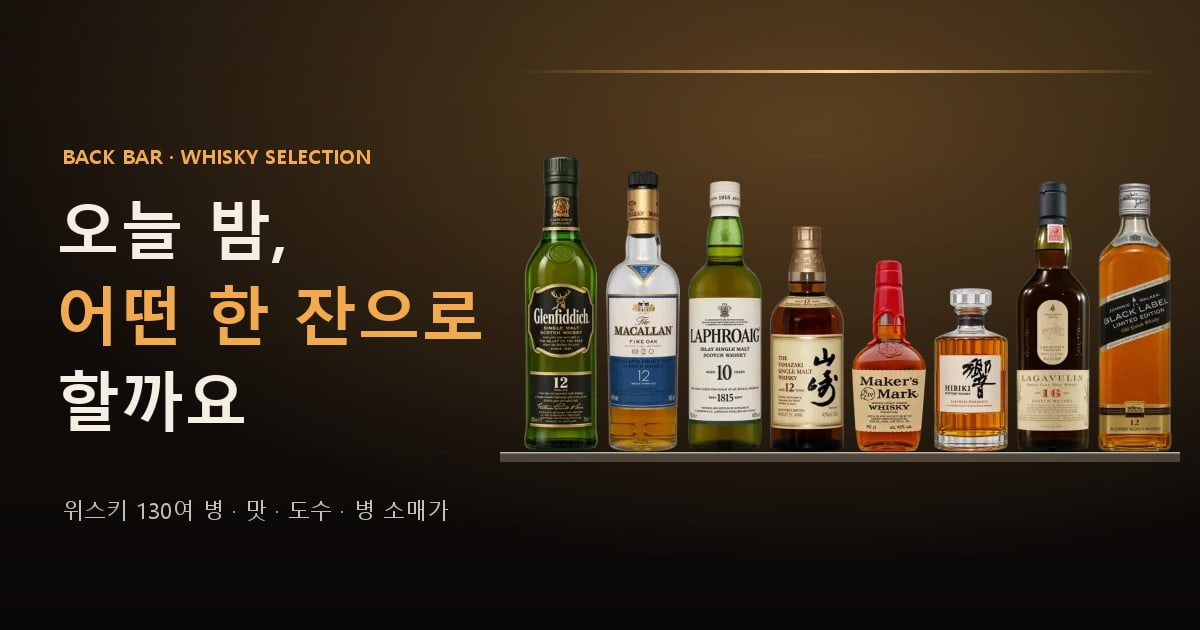
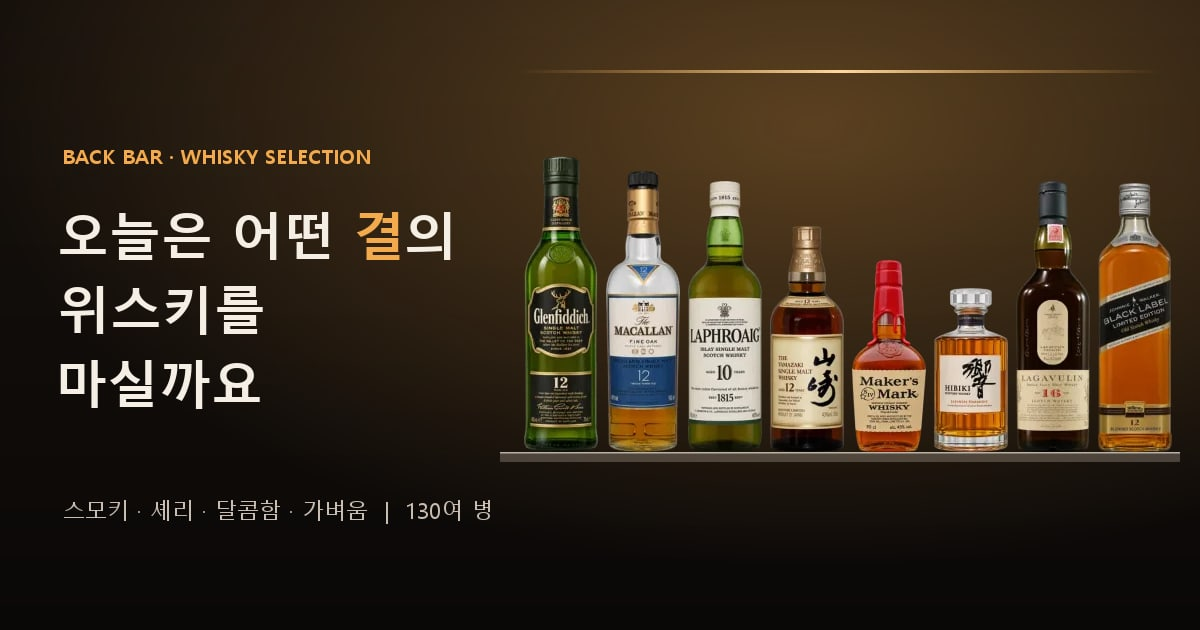
제목 문구 '오늘은 어떤 결의 위스키를 마실까요', 사진 없던 병 16종 이미지 추가, 선반 숫자 표시 버그 수정
제목: 사용자가 고른 안. 소개 문단·공유 이미지(og.jpg)도 맞춤.

이미지: Openverse로 사진 없는 62병의 상업 이용·변경 허용 사진을 찾아 라벨이 맞는 16장을 골라 코덱스로 다시 그림(발베니 21 포트우드, 글렌파클라스 12, 아드벡 우가달, 헤이그 클럽, 레어 브리드, 일라이저 크레이그 SB, 리텐하우스 라이, 토키, 히비키 17, 야마자키 18, 글렌리벳 18, 토마틴 12, 애버펠디 12, 레다이그 10, 짐빔, 폴 존). PH에 작가·라이선스·원본 주소. 판매점이 공식 사진을 퍼블릭 도메인으로 올린 조니워커 2장은 출처가 미심쩍어 뺌. 크레딧 문구를 '원본 사진'·'위키미디어 공용·Flickr'로.

버그: 지난 배포에서 btn(o, extra)로 바꾸며 선반의 hit.map(btn)이 순번을 덧붙임 줄로 넘겨 병 이름 아래 1·2·3 숫자가 보이던 문제. map(o=>btn(o))로 고침.

확인: 375px 첫 화면·선반·상세, 깨진 이미지 없음, 가로 넘침 없음. 남은 그림 병 46종은 자유 이용 사진을 찾지 못함.

Changed region(s): [[0.0308, 0.4524, 0.4008, 0.6937], [0.0308, 0.3016, 0.4008, 0.4222], [0.0617, 0.7841, 0.4008, 0.8444]]

diff --git a/index.html b/index.html
@@ -276,8 +276,8 @@ body.has-tray footer.site{padding-bottom:120px}
 <div class="wrap">
   <header class="top">
     <div class="eyebrow">Back Bar · Whisky Selection</div>
-    <h1>오늘 밤, <em>어떤 한&nbsp;잔</em>으로 할까요</h1>
-    <p class="lede">국내 위스키바 선반에서 자주 보는 병을 종류별로 진열해 두었습니다. 병을 누르면 맛, 도수, 숙성 통, 병 디자인, 마시는 법과 맛이 비슷한 병이 나옵니다.</p>
+    <h1>오늘은 어떤 <em>결</em>의<br>위스키를 마실까요</h1>
+    <p class="lede">스모키, 셰리, 달콤함, 가벼움. 원하는 맛을 고르면 선반에서 그 병들만 남습니다. 병을 누르면 도수와 숙성 통, 국내 병 소매가, 맛이 비슷한 병이 나옵니다.</p>
     <div class="stats" id="stats"></div>
   </header>
 </div>
@@ -308,7 +308,7 @@ body.has-tray footer.site{padding-bottom:120px}
 <div class="tray" id="tray" role="region" aria-label="비교할 병" hidden></div>
 
 <script>
-const PH = {"glenfiddich-12":{"f":"bottles/glenfiddich-12.webp","w":110,"h":440,"a":"Blueye","l":"CC BY-SA 3.0","u":"https://commons.wikimedia.org/wiki/File:Bottle_of_Glenfiddich_12yo.jpg","n":""},"glenfiddich-15":{"f":"bottles/glenfiddich-15.webp","w":113,"h":440,"a":"Rennboot","l":"CC BY 3.0","u":"https://commons.wikimedia.org/wiki/File:Glenfiddich_Products.jpg","n":"사진은 예전 둥근 병의 15년 솔레라(지금 병은 12년과 같은 삼각 병)"},"glenlivet-12":{"f":"bottles/glenlivet-12.webp","w":123,"h":440,"a":"ChickenFalls","l":"CC BY-SA 3.0","u":"https://commons.wikimedia.org/wiki/File:The_Glenlivet_-_12_yr_Single_Malt.JPG","n":""},"macallan-12-sherry":{"f":"bottles/macallan-12-sherry.webp","w":116,"h":440,"a":"Nebydlogop","l":"CC BY-SA 4.0","u":"https://commons.wikimedia.org/wiki/File:Macallan_12.jpg","n":"사진 속 판(셰리 오크·더블 캐스크·파인 오크)은 다를 수 있음"},"macallan-12-double":{"f":"bottles/macallan-12-double.webp","w":115,"h":440,"a":"Arkadiy P.","l":"CC BY-SA 4.0","u":"https://commons.wikimedia.org/wiki/File:The_Macallan_12_yo_new.png","n":"사진 속 판(셰리 오크·더블 캐스크·파인 오크)은 다를 수 있음"},"balvenie-12":{"f":"bottles/balvenie-12.webp","w":161,"h":440,"a":"P. Brundel","l":"CC BY-SA 3.0","u":"https://commons.wikimedia.org/wiki/File:Balvenie_Whisky_Doublewood_12_years_old.jpg","n":""},"balvenie-14":{"f":"bottles/balvenie-14.webp","w":145,"h":440,"a":"Thomon","l":"CC BY-SA 4.0","u":"https://commons.wikimedia.org/wiki/File:Balvenie_14.jpg","n":""},"glenfarclas-105":{"f":"bottles/glenfarclas-105.webp","w":136,"h":440,"a":"Andy Mabbett","l":"CC BY-SA 3.0","u":"https://commons.wikimedia.org/wiki/File:Glenfarclas_105_miniature.jpg","n":"사진은 작은 병"},"glenallachie-12":{"f":"bottles/glenallachie-12.webp","w":162,"h":440,"a":"Keeezawa","l":"CC BY-SA 4.0","u":"https://commons.wikimedia.org/wiki/File:Glen_allachie_12yo.jpg","n":""},"cragganmore-12":{"f":"bottles/cragganmore-12.webp","w":110,"h":440,"a":"P. Brundel","l":"CC BY-SA 3.0","u":"https://commons.wikimedia.org/wiki/File:Gragganmore_Single_Malt_Speyside_Scotch_Whisky_12_years_old.jpg","n":""},"glenmorangie-original":{"f":"bottles/glenmorangie-original.webp","w":120,"h":440,"a":"Nebydlogop","l":"CC BY-SA 4.0","u":"https://commons.wikimedia.org/wiki/File:Glenmorangie_10.jpg","n":""},"glenmorangie-lasanta":{"f":"bottles/glenmorangie-lasanta.webp","w":117,"h":440,"a":"Sänger","l":"CC BY-SA 4.0","u":"https://commons.wikimedia.org/wiki/File:Glenmorangie_Quinta_Ruban_und_Lasanta.jpg","n":""},"dalmore-12":{"f":"bottles/dalmore-12.webp","w":184,"h":440,"a":"Keeezawa","l":"CC BY-SA 4.0","u":"https://commons.wikimedia.org/wiki/File:Dalmore_12yo.jpg","n":""},"glendronach-12":{"f":"bottles/glendronach-12.webp","w":113,"h":440,"a":"Thanhtour (thảo luận)","l":"CC BY 3.0","u":"https://commons.wikimedia.org/wiki/File:Ruou_whisky_glendronach.jpg","n":"사진 속 병은 다른 연수일 수 있음"},"clynelish-14":{"f":"bottles/clynelish-14.webp","w":109,"h":440,"a":"Keeezawa","l":"CC BY-SA 4.0","u":"https://commons.wikimedia.org/wiki/File:Clynelish14yo.jpg","n":""},"oban-14":{"f":"bottles/oban-14.webp","w":109,"h":440,"a":"Björn Rath","l":"퍼블릭 도메인","u":"https://commons.wikimedia.org/wiki/File:Oban_14yo.jpg","n":""},"old-pulteney-12":{"f":"bottles/old-pulteney-12.webp","w":159,"h":440,"a":"Numitr0n","l":"CC BY-SA 4.0","u":"https://commons.wikimedia.org/wiki/File:Bottle_of_Old_Pulteney_12.jpg","n":""},"dalwhinnie-15":{"f":"bottles/dalwhinnie-15.webp","w":185,"h":440,"a":"P. Brundel","l":"CC BY-SA 3.0","u":"https://commons.wikimedia.org/wiki/File:Dalwhinnie_Single_Highland_Malt_15_years_old.jpg","n":""},"talisker-10":{"f":"bottles/talisker-10.webp","w":116,"h":440,"a":"P. Brundel","l":"CC BY-SA 3.0","u":"https://commons.wikimedia.org/wiki/File:Talisker_Single_Malt_Scotch_Whisky_10_years_old.jpg","n":""},"highland-park-12":{"f":"bottles/highland-park-12.webp","w":176,"h":440,"a":"Adrenalin658","l":"CC BY-SA 4.0","u":"https://commons.wikimedia.org/wiki/File:Highland_Park_12_yo_new.png","n":""},"arran-10":{"f":"bottles/arran-10.webp","w":113,"h":440,"a":"Look Sharp!","l":"CC BY-SA 4.0","u":"https://commons.wikimedia.org/wiki/File:The_Arran_Malt_Single_Malt_Scotch_Whisky.jpg","n":"사진은 같은 증류소의 다른 제품"},"laphroaig-10":{"f":"bottles/laphroaig-10.webp","w":120,"h":440,"a":"Thomon","l":"CC BY-SA 4.0","u":"https://commons.wikimedia.org/wiki/File:Laphroaig_10.jpg","n":""},"laphroaig-qc":{"f":"bottles/laphroaig-qc.webp","w":114,"h":440,"a":"Lord van Tasm","l":"CC BY-SA 3.0","u":"https://commons.wikimedia.org/wiki/File:Laphroaig_Quarter_Cask_Dram.jpg","n":""},"lagavulin-16":{"f":"bottles/lagavulin-16.webp","w":120,"h":440,"a":"P. Brundel","l":"CC BY-SA 3.0","u":"https://commons.wikimedia.org/wiki/File:Lagavulin_Single_Islay_Malt_Whisky_16_years_old.jpg","n":""},"bowmore-12":{"f":"bottles/bowmore-12.webp","w":116,"h":440,"a":"P. Brundel","l":"CC BY-SA 3.0","u":"https://commons.wikimedia.org/wiki/File:Bowmore_Single_Malt_Scotch_Whisky_12_years_old.jpg","n":""},"caol-ila-12":{"f":"bottles/caol-ila-12.webp","w":117,"h":440,"a":"Look Sharp!","l":"CC BY-SA 3.0","u":"https://commons.wikimedia.org/wiki/File:Caol_Ila_Islay_Single_Malt_Whisky_aged_12_years.jpg","n":""},"bunnahabhain-12":{"f":"bottles/bunnahabhain-12.webp","w":169,"h":440,"a":"JIP","l":"CC BY-SA 4.0","u":"https://commons.wikimedia.org/wiki/File:Bunnahabhain_Cruach-Mh%C3%B2na.jpg","n":"사진은 크루아흐 모나(같은 증류소 다른 제품)"},"bruichladdich-classic":{"f":"bottles/bruichladdich-classic.webp","w":182,"h":440,"a":"Trashmillion","l":"CC BY-SA 3.0","u":"https://commons.wikimedia.org/wiki/File:Bruichladdich_Scottish_Barley_Single_Malt_Scotch_Whisky.jpg","n":""},"springbank-10":{"f":"bottles/springbank-10.webp","w":150,"h":440,"a":"BjörnR","l":"CC BY-SA 3.0","u":"https://commons.wikimedia.org/wiki/File:Springbank15yo_s.jpg","n":"사진은 15년 제품"},"longrow":{"f":"bottles/longrow.webp","w":146,"h":440,"a":"작가 미상","l":"CC BY-SA 3.0","u":"https://commons.wikimedia.org/wiki/File:Longrow_aged10y_100proof.jpg","n":"사진은 예전 10년 100프루프"},"auchentoshan-12":{"f":"bottles/auchentoshan-12.webp","w":138,"h":440,"a":"Nebydlogop","l":"CC BY-SA 4.0","u":"https://commons.wikimedia.org/wiki/File:Auchentoshan_12.jpg","n":""},"glenkinchie-12":{"f":"bottles/glenkinchie-12.webp","w":146,"h":440,"a":"Tasma3197","l":"CC BY 3.0","u":"https://commons.wikimedia.org/wiki/File:Glenkinchie12.jpg","n":""},"jw-black":{"f":"bottles/jw-black.webp","w":121,"h":440,"a":"Newone http://blogtiengviet.net/NghiaHa","l":"CC BY-SA 3.0","u":"https://commons.wikimedia.org/wiki/File:Johnnie_Walker_Black_Label_Limited_edition2.JPG","n":"사진은 한정판 병"},"jw-green":{"f":"bottles/jw-green.webp","w":111,"h":440,"a":"Iceman7840","l":"CC BY-SA 3.0","u":"https://commons.wikimedia.org/wiki/File:JW_Greens.jpg","n":""},"jw-blue":{"f":"bottles/jw-blue.webp","w":134,"h":440,"a":"Iceman7840","l":"CC BY-SA 3.0","u":"https://commons.wikimedia.org/wiki/File:JW_Blue_Label.jpg","n":""},"royal-salute-21":{"f":"bottles/royal-salute-21.webp","w":215,"h":440,"a":"Amitbalani","l":"CC0","u":"https://commons.wikimedia.org/wiki/File:Royal_Salute_scotch_whiskey.jpg","n":""},"monkey-shoulder":{"f":"bottles/monkey-shoulder.webp","w":186,"h":440,"a":"Clément Bucco-Lechat","l":"CC BY-SA 3.0","u":"https://commons.wikimedia.org/wiki/File:Monkey_Shoulder_scotch_bottle.jpg","n":""},"famous-grouse":{"f":"bottles/famous-grouse.webp","w":125,"h":440,"a":"Popperipopp","l":"CC BY 3.0","u":"https://commons.wikimedia.org/wiki/File:Famous_Grouse.JPG","n":""},"buffalo-trace":{"f":"bottles/buffalo-trace.webp","w":152,"h":440,"a":"Craiglduncan","l":"CC BY-SA 3.0","u":"https://commons.wikimedia.org/wiki/File:Buffalo_Trace.JPG","n":""},"wild-turkey-101":{"f":"bottles/wild-turkey-101.webp","w":137,"h":440,"a":"Craiglduncan","l":"CC BY-SA 3.0","u":"https://commons.wikimedia.org/wiki/File:Wild_Turkey_101.JPG","n":""},"woodford":{"f":"bottles/woodford.webp","w":217,"h":440,"a":"Guerlin","l":"CC BY-SA 4.0","u":"https://commons.wikimedia.org/wiki/File:Woodford_Reserve_2016.png","n":""},"four-roses-sb":{"f":"bottles/four-roses-sb.webp","w":130,"h":440,"a":"King4120","l":"CC BY-SA 4.0","u":"https://commons.wikimedia.org/wiki/File:Four_Roses_Bourbon.jpg","n":"사진은 다른 판일 수 있음"},"knob-creek-9":{"f":"bottles/knob-creek-9.webp","w":201,"h":440,"a":"LittleGun","l":"퍼블릭 도메인","u":"https://commons.wikimedia.org/wiki/File:Knob_creek_bottle.jpg","n":""},"eagle-rare-10":{"f":"bottles/eagle-rare-10.webp","w":101,"h":440,"a":"Craiglduncan","l":"CC BY-SA 3.0","u":"https://commons.wikimedia.org/wiki/File:Eagle_Rare.JPG","n":""},"bulleit-rye":{"f":"bottles/bulleit-rye.webp","w":175,"h":440,"a":"David","l":"CC BY 2.0","u":"https://commons.wikimedia.org/wiki/File:Bulleit_95_Rye_Frontier_Whiskey_(52057370044).jpg","n":""},"jameson":{"f":"bottles/jameson.webp","w":110,"h":440,"a":"Datenralfi","l":"CC BY-SA 3.0 de","u":"https://commons.wikimedia.org/wiki/File:Jameson_Irish_Whiskey.JPG","n":""},"redbreast-12":{"f":"bottles/redbreast-12.webp","w":169,"h":440,"a":"Tasma3197","l":"CC BY-SA 3.0","u":"https://commons.wikimedia.org/wiki/File:Redbreast12.jpg","n":""},"green-spot":{"f":"bottles/green-spot.webp","w":127,"h":440,"a":"Matt Wunderle","l":"CC BY 2.0","u":"https://commons.wikimedia.org/wiki/File:Green_Spot_and_Yellow_Spot_Irish_Whiskey.jpg","n":""},"bushmills-10":{"f":"bottles/bushmills-10.webp","w":125,"h":440,"a":"Datenralfi","l":"CC BY-SA 3.0","u":"https://commons.wikimedia.org/wiki/File:Bushmills_10_Years_Old_Single_Malt.JPG","n":""},"crown-royal":{"f":"bottles/crown-royal.webp","w":303,"h":440,"a":"Jean-Francois Pilon from Montreal, Canada","l":"CC BY-SA 2.0","u":"https://commons.wikimedia.org/wiki/File:Crown_Royal_Limited_Edition_(7468262392).jpg","n":"사진은 한정판 병"},"kakubin":{"f":"bottles/kakubin.webp","w":156,"h":440,"a":"Kuha455405","l":"CC BY-SA 3.0","u":"https://commons.wikimedia.org/wiki/File:Suntory_Kakubin.jpg","n":""},"hibiki-harmony":{"f":"bottles/hibiki-harmony.webp","w":198,"h":440,"a":"ウィキ太郎 (Wiki Taro)","l":"퍼블릭 도메인","u":"https://commons.wikimedia.org/wiki/File:Hibiki_the_premium_blended_whisky_from_Japanese_distiller_Suntory.jpg","n":"사진 속 히비키는 다른 연수일 수 있음"},"yamazaki-12":{"f":"bottles/yamazaki-12.webp","w":144,"h":440,"a":"Look Sharp!","l":"CC BY-SA 3.0","u":"https://commons.wikimedia.org/wiki/File:The_Yamazaki_Single_Malt_Whisky_Aged_12_years.JPG","n":""},"chita":{"f":"bottles/chita.webp","w":139,"h":440,"a":"Keeezawa","l":"CC BY-SA 4.0","u":"https://commons.wikimedia.org/wiki/File:Chita_180ml.jpg","n":"사진은 작은 병"},"nikka-ftb":{"f":"bottles/nikka-ftb.webp","w":218,"h":440,"a":"Dominic Lockyer","l":"CC BY 2.0","u":"https://commons.wikimedia.org/wiki/File:Nikka_Whisky_From_the_Barrel,_Japan.jpg","n":""},"yoichi":{"f":"bottles/yoichi.webp","w":137,"h":440,"a":"Clément Bucco-Lechat","l":"CC BY-SA 3.0","u":"https://commons.wikimedia.org/wiki/File:Yoichi_bottle.jpg","n":"사진은 10년 제품"},"miyagikyo":{"f":"bottles/miyagikyo.webp","w":142,"h":440,"a":"KASEI","l":"CC BY-SA 4.0","u":"https://commons.wikimedia.org/wiki/File:Miyagikyou_bottle.jpg","n":""},"nikka-coffey-grain":{"f":"bottles/nikka-coffey-grain.webp","w":140,"h":440,"a":"Kentin","l":"CC BY-SA 4.0","u":"https://commons.wikimedia.org/wiki/File:Nikka_coffey_grain_whisky_2015.jpg","n":""},"kavalan-classic":{"f":"bottles/kavalan-classic.webp","w":126,"h":440,"a":"othree","l":"CC BY 2.0","u":"https://commons.wikimedia.org/wiki/File:Kavalan_single_malt_whiskey.jpg","n":""},"amrut":{"f":"bottles/amrut.webp","w":116,"h":440,"a":"Vikrambj","l":"CC BY-SA 3.0","u":"https://commons.wikimedia.org/wiki/File:Amrut_singlemalt_whisky_2013-06-11_18-39.jpg","n":""},"aberlour-abunadh":{"f":"bottles/aberlour-abunadh.webp","w":159,"h":440,"a":"Paweł Mazurek KRK","l":"CC BY-SA 4.0","u":"https://commons.wikimedia.org/wiki/File:Aberlour_A%27bunadh_Batch_59.jpg","n":""},"ardbeg-10":{"f":"bottles/ardbeg-10.webp","w":131,"h":440,"a":"DYVER","l":"CC BY-SA 4.0","u":"https://commons.wikimedia.org/wiki/File:Ardbeg_10_Jahre_Flasche.jpg","n":""},"makers-mark":{"f":"bottles/makers-mark.webp","w":170,"h":440,"a":"Céréales Killer","l":"CC BY-SA 4.0","u":"https://commons.wikimedia.org/wiki/File:Maker%27s_Mark.jpg","n":""},"blantons":{"f":"bottles/blantons.webp","w":230,"h":440,"a":"DixieLiquor","l":"CC BY-SA 4.0","u":"https://commons.wikimedia.org/wiki/File:Blanton%27s_Single_Barrel_Bourbon.jpg","n":""},"jack-daniels-7":{"f":"bottles/jack-daniels-7.webp","w":143,"h":440,"a":"Clément Bucco-Lechat","l":"CC BY-SA 3.0","u":"https://commons.wikimedia.org/wiki/File:Jack_Daniels_bottle.jpg","n":""},"hakushu-dr":{"f":"bottles/hakushu-dr.webp","w":139,"h":440,"a":"Satoru Shimizu","l":"CC BY-SA 4.0","u":"https://commons.wikimedia.org/wiki/File:Yamazaki,Hakushu,Hibiki.JPG","n":"사진 속 하쿠슈는 다른 판일 수 있음"},"ardbeg-corryvreckan":{"f":"bottles/ardbeg-corryvreckan.webp","w":131,"h":440,"a":"JIP","l":"CC BY-SA 4.0","u":"https://commons.wikimedia.org/wiki/File:Ardbeg_Corryvreckan.jpg","n":""},"kilchoman-sanaig":{"f":"bottles/kilchoman-sanaig.webp","w":191,"h":440,"a":"HReuter","l":"CC BY-SA 4.0","u":"https://commons.wikimedia.org/wiki/File:Kilchoman_Sanaig_0061.jpg","n":""},"chivas-12":{"f":"bottles/chivas-12.webp","w":178,"h":440,"a":"Pablo Jiménez Díez","l":"CC BY-SA 4.0","u":"https://commons.wikimedia.org/wiki/File:Chivas_Regal.jpg","n":""},"ballantines-finest":{"f":"bottles/ballantines-finest.webp","w":167,"h":440,"a":"Jacek Halicki","l":"CC BY-SA 4.0","u":"https://commons.wikimedia.org/wiki/File:2017_Ballantine%27s_Finest.jpg","n":""},"glenfarclas-15":{"f":"bottles/glenfarclas-15.webp","w":145,"h":440,"a":"Yoshee","l":"CC BY-SA 4.0","u":"https://commons.wikimedia.org/wiki/File:Glenfarclas_15y_bottle.jpg","n":""}};
+const PH = {"glenfiddich-12":{"f":"bottles/glenfiddich-12.webp","w":110,"h":440,"a":"Blueye","l":"CC BY-SA 3.0","u":"https://commons.wikimedia.org/wiki/File:Bottle_of_Glenfiddich_12yo.jpg","n":""},"glenfiddich-15":{"f":"bottles/glenfiddich-15.webp","w":113,"h":440,"a":"Rennboot","l":"CC BY 3.0","u":"https://commons.wikimedia.org/wiki/File:Glenfiddich_Products.jpg","n":"사진은 예전 둥근 병의 15년 솔레라(지금 병은 12년과 같은 삼각 병)"},"glenlivet-12":{"f":"bottles/glenlivet-12.webp","w":123,"h":440,"a":"ChickenFalls","l":"CC BY-SA 3.0","u":"https://commons.wikimedia.org/wiki/File:The_Glenlivet_-_12_yr_Single_Malt.JPG","n":""},"macallan-12-sherry":{"f":"bottles/macallan-12-sherry.webp","w":116,"h":440,"a":"Nebydlogop","l":"CC BY-SA 4.0","u":"https://commons.wikimedia.org/wiki/File:Macallan_12.jpg","n":"사진 속 판(셰리 오크·더블 캐스크·파인 오크)은 다를 수 있음"},"macallan-12-double":{"f":"bottles/macallan-12-double.webp","w":115,"h":440,"a":"Arkadiy P.","l":"CC BY-SA 4.0","u":"https://commons.wikimedia.org/wiki/File:The_Macallan_12_yo_new.png","n":"사진 속 판(셰리 오크·더블 캐스크·파인 오크)은 다를 수 있음"},"balvenie-12":{"f":"bottles/balvenie-12.webp","w":161,"h":440,"a":"P. Brundel","l":"CC BY-SA 3.0","u":"https://commons.wikimedia.org/wiki/File:Balvenie_Whisky_Doublewood_12_years_old.jpg","n":""},"balvenie-14":{"f":"bottles/balvenie-14.webp","w":145,"h":440,"a":"Thomon","l":"CC BY-SA 4.0","u":"https://commons.wikimedia.org/wiki/File:Balvenie_14.jpg","n":""},"glenfarclas-105":{"f":"bottles/glenfarclas-105.webp","w":136,"h":440,"a":"Andy Mabbett","l":"CC BY-SA 3.0","u":"https://commons.wikimedia.org/wiki/File:Glenfarclas_105_miniature.jpg","n":"사진은 작은 병"},"glenallachie-12":{"f":"bottles/glenallachie-12.webp","w":162,"h":440,"a":"Keeezawa","l":"CC BY-SA 4.0","u":"https://commons.wikimedia.org/wiki/File:Glen_allachie_12yo.jpg","n":""},"cragganmore-12":{"f":"bottles/cragganmore-12.webp","w":110,"h":440,"a":"P. Brundel","l":"CC BY-SA 3.0","u":"https://commons.wikimedia.org/wiki/File:Gragganmore_Single_Malt_Speyside_Scotch_Whisky_12_years_old.jpg","n":""},"glenmorangie-original":{"f":"bottles/glenmorangie-original.webp","w":120,"h":440,"a":"Nebydlogop","l":"CC BY-SA 4.0","u":"https://commons.wikimedia.org/wiki/File:Glenmorangie_10.jpg","n":""},"glenmorangie-lasanta":{"f":"bottles/glenmorangie-lasanta.webp","w":117,"h":440,"a":"Sänger","l":"CC BY-SA 4.0","u":"https://commons.wikimedia.org/wiki/File:Glenmorangie_Quinta_Ruban_und_Lasanta.jpg","n":""},"dalmore-12":{"f":"bottles/dalmore-12.webp","w":184,"h":440,"a":"Keeezawa","l":"CC BY-SA 4.0","u":"https://commons.wikimedia.org/wiki/File:Dalmore_12yo.jpg","n":""},"glendronach-12":{"f":"bottles/glendronach-12.webp","w":113,"h":440,"a":"Thanhtour (thảo luận)","l":"CC BY 3.0","u":"https://commons.wikimedia.org/wiki/File:Ruou_whisky_glendronach.jpg","n":"사진 속 병은 다른 연수일 수 있음"},"clynelish-14":{"f":"bottles/clynelish-14.webp","w":109,"h":440,"a":"Keeezawa","l":"CC BY-SA 4.0","u":"https://commons.wikimedia.org/wiki/File:Clynelish14yo.jpg","n":""},"oban-14":{"f":"bottles/oban-14.webp","w":109,"h":440,"a":"Björn Rath","l":"퍼블릭 도메인","u":"https://commons.wikimedia.org/wiki/File:Oban_14yo.jpg","n":""},"old-pulteney-12":{"f":"bottles/old-pulteney-12.webp","w":159,"h":440,"a":"Numitr0n","l":"CC BY-SA 4.0","u":"https://commons.wikimedia.org/wiki/File:Bottle_of_Old_Pulteney_12.jpg","n":""},"dalwhinnie-15":{"f":"bottles/dalwhinnie-15.webp","w":185,"h":440,"a":"P. Brundel","l":"CC BY-SA 3.0","u":"https://commons.wikimedia.org/wiki/File:Dalwhinnie_Single_Highland_Malt_15_years_old.jpg","n":""},"talisker-10":{"f":"bottles/talisker-10.webp","w":116,"h":440,"a":"P. Brundel","l":"CC BY-SA 3.0","u":"https://commons.wikimedia.org/wiki/File:Talisker_Single_Malt_Scotch_Whisky_10_years_old.jpg","n":""},"highland-park-12":{"f":"bottles/highland-park-12.webp","w":176,"h":440,"a":"Adrenalin658","l":"CC BY-SA 4.0","u":"https://commons.wikimedia.org/wiki/File:Highland_Park_12_yo_new.png","n":""},"arran-10":{"f":"bottles/arran-10.webp","w":113,"h":440,"a":"Look Sharp!","l":"CC BY-SA 4.0","u":"https://commons.wikimedia.org/wiki/File:The_Arran_Malt_Single_Malt_Scotch_Whisky.jpg","n":"사진은 같은 증류소의 다른 제품"},"laphroaig-10":{"f":"bottles/laphroaig-10.webp","w":120,"h":440,"a":"Thomon","l":"CC BY-SA 4.0","u":"https://commons.wikimedia.org/wiki/File:Laphroaig_10.jpg","n":""},"laphroaig-qc":{"f":"bottles/laphroaig-qc.webp","w":114,"h":440,"a":"Lord van Tasm","l":"CC BY-SA 3.0","u":"https://commons.wikimedia.org/wiki/File:Laphroaig_Quarter_Cask_Dram.jpg","n":""},"lagavulin-16":{"f":"bottles/lagavulin-16.webp","w":120,"h":440,"a":"P. Brundel","l":"CC BY-SA 3.0","u":"https://commons.wikimedia.org/wiki/File:Lagavulin_Single_Islay_Malt_Whisky_16_years_old.jpg","n":""},"bowmore-12":{"f":"bottles/bowmore-12.webp","w":116,"h":440,"a":"P. Brundel","l":"CC BY-SA 3.0","u":"https://commons.wikimedia.org/wiki/File:Bowmore_Single_Malt_Scotch_Whisky_12_years_old.jpg","n":""},"caol-ila-12":{"f":"bottles/caol-ila-12.webp","w":117,"h":440,"a":"Look Sharp!","l":"CC BY-SA 3.0","u":"https://commons.wikimedia.org/wiki/File:Caol_Ila_Islay_Single_Malt_Whisky_aged_12_years.jpg","n":""},"bunnahabhain-12":{"f":"bottles/bunnahabhain-12.webp","w":169,"h":440,"a":"JIP","l":"CC BY-SA 4.0","u":"https://commons.wikimedia.org/wiki/File:Bunnahabhain_Cruach-Mh%C3%B2na.jpg","n":"사진은 크루아흐 모나(같은 증류소 다른 제품)"},"bruichladdich-classic":{"f":"bottles/bruichladdich-classic.webp","w":182,"h":440,"a":"Trashmillion","l":"CC BY-SA 3.0","u":"https://commons.wikimedia.org/wiki/File:Bruichladdich_Scottish_Barley_Single_Malt_Scotch_Whisky.jpg","n":""},"springbank-10":{"f":"bottles/springbank-10.webp","w":150,"h":440,"a":"BjörnR","l":"CC BY-SA 3.0","u":"https://commons.wikimedia.org/wiki/File:Springbank15yo_s.jpg","n":"사진은 15년 제품"},"longrow":{"f":"bottles/longrow.webp","w":146,"h":440,"a":"작가 미상","l":"CC BY-SA 3.0","u":"https://commons.wikimedia.org/wiki/File:Longrow_aged10y_100proof.jpg","n":"사진은 예전 10년 100프루프"},"auchentoshan-12":{"f":"bottles/auchentoshan-12.webp","w":138,"h":440,"a":"Nebydlogop","l":"CC BY-SA 4.0","u":"https://commons.wikimedia.org/wiki/File:Auchentoshan_12.jpg","n":""},"glenkinchie-12":{"f":"bottles/glenkinchie-12.webp","w":146,"h":440,"a":"Tasma3197","l":"CC BY 3.0","u":"https://commons.wikimedia.org/wiki/File:Glenkinchie12.jpg","n":""},"jw-black":{"f":"bottles/jw-black.webp","w":121,"h":440,"a":"Newone http://blogtiengviet.net/NghiaHa","l":"CC BY-SA 3.0","u":"https://commons.wikimedia.org/wiki/File:Johnnie_Walker_Black_Label_Limited_edition2.JPG","n":"사진은 한정판 병"},"jw-green":{"f":"bottles/jw-green.webp","w":111,"h":440,"a":"Iceman7840","l":"CC BY-SA 3.0","u":"https://commons.wikimedia.org/wiki/File:JW_Greens.jpg","n":""},"jw-blue":{"f":"bottles/jw-blue.webp","w":134,"h":440,"a":"Iceman7840","l":"CC BY-SA 3.0","u":"https://commons.wikimedia.org/wiki/File:JW_Blue_Label.jpg","n":""},"royal-salute-21":{"f":"bottles/royal-salute-21.webp","w":215,"h":440,"a":"Amitbalani","l":"CC0","u":"https://commons.wikimedia.org/wiki/File:Royal_Salute_scotch_whiskey.jpg","n":""},"monkey-shoulder":{"f":"bottles/monkey-shoulder.webp","w":186,"h":440,"a":"Clément Bucco-Lechat","l":"CC BY-SA 3.0","u":"https://commons.wikimedia.org/wiki/File:Monkey_Shoulder_scotch_bottle.jpg","n":""},"famous-grouse":{"f":"bottles/famous-grouse.webp","w":125,"h":440,"a":"Popperipopp","l":"CC BY 3.0","u":"https://commons.wikimedia.org/wiki/File:Famous_Grouse.JPG","n":""},"buffalo-trace":{"f":"bottles/buffalo-trace.webp","w":152,"h":440,"a":"Craiglduncan","l":"CC BY-SA 3.0","u":"https://commons.wikimedia.org/wiki/File:Buffalo_Trace.JPG","n":""},"wild-turkey-101":{"f":"bottles/wild-turkey-101.webp","w":137,"h":440,"a":"Craiglduncan","l":"CC BY-SA 3.0","u":"https://commons.wikimedia.org/wiki/File:Wild_Turkey_101.JPG","n":""},"woodford":{"f":"bottles/woodford.webp","w":217,"h":440,"a":"Guerlin","l":"CC BY-SA 4.0","u":"https://commons.wikimedia.org/wiki/File:Woodford_Reserve_2016.png","n":""},"four-roses-sb":{"f":"bottles/four-roses-sb.webp","w":130,"h":440,"a":"King4120","l":"CC BY-SA 4.0","u":"https://commons.wikimedia.org/wiki/File:Four_Roses_Bourbon.jpg","n":"사진은 다른 판일 수 있음"},"knob-creek-9":{"f":"bottles/knob-creek-9.webp","w":201,"h":440,"a":"LittleGun","l":"퍼블릭 도메인","u":"https://commons.wikimedia.org/wiki/File:Knob_creek_bottle.jpg","n":""},"eagle-rare-10":{"f":"bottles/eagle-rare-10.webp","w":101,"h":440,"a":"Craiglduncan","l":"CC BY-SA 3.0","u":"https://commons.wikimedia.org/wiki/File:Eagle_Rare.JPG","n":""},"bulleit-rye":{"f":"bottles/bulleit-rye.webp","w":175,"h":440,"a":"David","l":"CC BY 2.0","u":"https://commons.wikimedia.org/wiki/File:Bulleit_95_Rye_Frontier_Whiskey_(52057370044).jpg","n":""},"jameson":{"f":"bottles/jameson.webp","w":110,"h":440,"a":"Datenralfi","l":"CC BY-SA 3.0 de","u":"https://commons.wikimedia.org/wiki/File:Jameson_Irish_Whiskey.JPG","n":""},"redbreast-12":{"f":"bottles/redbreast-12.webp","w":169,"h":440,"a":"Tasma3197","l":"CC BY-SA 3.0","u":"https://commons.wikimedia.org/wiki/File:Redbreast12.jpg","n":""},"green-spot":{"f":"bottles/green-spot.webp","w":127,"h":440,"a":"Matt Wunderle","l":"CC BY 2.0","u":"https://commons.wikimedia.org/wiki/File:Green_Spot_and_Yellow_Spot_Irish_Whiskey.jpg","n":""},"bushmills-10":{"f":"bottles/bushmills-10.webp","w":125,"h":440,"a":"Datenralfi","l":"CC BY-SA 3.0","u":"https://commons.wikimedia.org/wiki/File:Bushmills_10_Years_Old_Single_Malt.JPG","n":""},"crown-royal":{"f":"bottles/crown-royal.webp","w":303,"h":440,"a":"Jean-Francois Pilon from Montreal, Canada","l":"CC BY-SA 2.0","u":"https://commons.wikimedia.org/wiki/File:Crown_Royal_Limited_Edition_(7468262392).jpg","n":"사진은 한정판 병"},"kakubin":{"f":"bottles/kakubin.webp","w":156,"h":440,"a":"Kuha455405","l":"CC BY-SA 3.0","u":"https://commons.wikimedia.org/wiki/File:Suntory_Kakubin.jpg","n":""},"hibiki-harmony":{"f":"bottles/hibiki-harmony.webp","w":198,"h":440,"a":"ウィキ太郎 (Wiki Taro)","l":"퍼블릭 도메인","u":"https://commons.wikimedia.org/wiki/File:Hibiki_the_premium_blended_whisky_from_Japanese_distiller_Suntory.jpg","n":"사진 속 히비키는 다른 연수일 수 있음"},"yamazaki-12":{"f":"bottles/yamazaki-12.webp","w":144,"h":440,"a":"Look Sharp!","l":"CC BY-SA 3.0","u":"https://commons.wikimedia.org/wiki/File:The_Yamazaki_Single_Malt_Whisky_Aged_12_years.JPG","n":""},"chita":{"f":"bottles/chita.webp","w":139,"h":440,"a":"Keeezawa","l":"CC BY-SA 4.0","u":"https://commons.wikimedia.org/wiki/File:Chita_180ml.jpg","n":"사진은 작은 병"},"nikka-ftb":{"f":"bottles/nikka-ftb.webp","w":218,"h":440,"a":"Dominic Lockyer","l":"CC BY 2.0","u":"https://commons.wikimedia.org/wiki/File:Nikka_Whisky_From_the_Barrel,_Japan.jpg","n":""},"yoichi":{"f":"bottles/yoichi.webp","w":137,"h":440,"a":"Clément Bucco-Lechat","l":"CC BY-SA 3.0","u":"https://commons.wikimedia.org/wiki/File:Yoichi_bottle.jpg","n":"사진은 10년 제품"},"miyagikyo":{"f":"bottles/miyagikyo.webp","w":142,"h":440,"a":"KASEI","l":"CC BY-SA 4.0","u":"https://commons.wikimedia.org/wiki/File:Miyagikyou_bottle.jpg","n":""},"nikka-coffey-grain":{"f":"bottles/nikka-coffey-grain.webp","w":140,"h":440,"a":"Kentin","l":"CC BY-SA 4.0","u":"https://commons.wikimedia.org/wiki/File:Nikka_coffey_grain_whisky_2015.jpg","n":""},"kavalan-classic":{"f":"bottles/kavalan-classic.webp","w":126,"h":440,"a":"othree","l":"CC BY 2.0","u":"https://commons.wikimedia.org/wiki/File:Kavalan_single_malt_whiskey.jpg","n":""},"amrut":{"f":"bottles/amrut.webp","w":116,"h":440,"a":"Vikrambj","l":"CC BY-SA 3.0","u":"https://commons.wikimedia.org/wiki/File:Amrut_singlemalt_whisky_2013-06-11_18-39.jpg","n":""},"aberlour-abunadh":{"f":"bottles/aberlour-abunadh.webp","w":159,"h":440,"a":"Paweł Mazurek KRK","l":"CC BY-SA 4.0","u":"https://commons.wikimedia.org/wiki/File:Aberlour_A%27bunadh_Batch_59.jpg","n":""},"ardbeg-10":{"f":"bottles/ardbeg-10.webp","w":131,"h":440,"a":"DYVER","l":"CC BY-SA 4.0","u":"https://commons.wikimedia.org/wiki/File:Ardbeg_10_Jahre_Flasche.jpg","n":""},"makers-mark":{"f":"bottles/makers-mark.webp","w":170,"h":440,"a":"Céréales Killer","l":"CC BY-SA 4.0","u":"https://commons.wikimedia.org/wiki/File:Maker%27s_Mark.jpg","n":""},"blantons":{"f":"bottles/blantons.webp","w":230,"h":440,"a":"DixieLiquor","l":"CC BY-SA 4.0","u":"https://commons.wikimedia.org/wiki/File:Blanton%27s_Single_Barrel_Bourbon.jpg","n":""},"jack-daniels-7":{"f":"bottles/jack-daniels-7.webp","w":143,"h":440,"a":"Clément Bucco-Lechat","l":"CC BY-SA 3.0","u":"https://commons.wikimedia.org/wiki/File:Jack_Daniels_bottle.jpg","n":""},"hakushu-dr":{"f":"bottles/hakushu-dr.webp","w":139,"h":440,"a":"Satoru Shimizu","l":"CC BY-SA 4.0","u":"https://commons.wikimedia.org/wiki/File:Yamazaki,Hakushu,Hibiki.JPG","n":"사진 속 하쿠슈는 다른 판일 수 있음"},"ardbeg-corryvreckan":{"f":"bottles/ardbeg-corryvreckan.webp","w":131,"h":440,"a":"JIP","l":"CC BY-SA 4.0","u":"https://commons.wikimedia.org/wiki/File:Ardbeg_Corryvreckan.jpg","n":""},"kilchoman-sanaig":{"f":"bottles/kilchoman-sanaig.webp","w":191,"h":440,"a":"HReuter","l":"CC BY-SA 4.0","u":"https://commons.wikimedia.org/wiki/File:Kilchoman_Sanaig_0061.jpg","n":""},"chivas-12":{"f":"bottles/chivas-12.webp","w":178,"h":440,"a":"Pablo Jiménez Díez","l":"CC BY-SA 4.0","u":"https://commons.wikimedia.org/wiki/File:Chivas_Regal.jpg","n":""},"ballantines-finest":{"f":"bottles/ballantines-finest.webp","w":167,"h":440,"a":"Jacek Halicki","l":"CC BY-SA 4.0","u":"https://commons.wikimedia.org/wiki/File:2017_Ballantine%27s_Finest.jpg","n":""},"glenfarclas-15":{"f":"bottles/glenfarclas-15.webp","w":145,"h":440,"a":"Yoshee","l":"CC BY-SA 4.0","u":"https://commons.wikimedia.org/wiki/File:Glenfarclas_15y_bottle.jpg","n":""},"balvenie-21-pw":{"f":"bottles/balvenie-21-pw.webp","w":155,"h":440,"a":"nigab","l":"CC BY 2.0","u":"https://www.flickr.com/photos/44758619@N08/13059521395","n":""},"glenfarclas-12":{"f":"bottles/glenfarclas-12.webp","w":149,"h":440,"a":"Whisky Notes JP","l":"CC BY 2.0","u":"https://www.flickr.com/photos/141914102@N08/40109987824","n":"작은 사진을 참고"},"ardbeg-uigeadail":{"f":"bottles/ardbeg-uigeadail.webp","w":129,"h":440,"a":"Fareham Wine","l":"CC BY 2.0","u":"https://www.flickr.com/photos/62243473@N05/21059092965","n":""},"haig-club":{"f":"bottles/haig-club.webp","w":161,"h":440,"a":"arw49","l":"CC BY 2.0","u":"https://www.flickr.com/photos/100293475@N08/31802899113","n":""},"wt-rare-breed":{"f":"bottles/wt-rare-breed.webp","w":177,"h":440,"a":"Brett Jordan","l":"CC BY 2.0","u":"https://www.flickr.com/photos/55497864@N00/52031520183","n":""},"elijah-craig":{"f":"bottles/elijah-craig.webp","w":179,"h":440,"a":"Brokentaco","l":"CC BY 2.0","u":"https://www.flickr.com/photos/92024986@N00/52089679615","n":""},"rittenhouse-rye":{"f":"bottles/rittenhouse-rye.webp","w":113,"h":440,"a":"Ethan Prater","l":"CC BY 2.0","u":"https://www.flickr.com/photos/21729155@N00/4188484371","n":"사진은 예전 라벨"},"toki":{"f":"bottles/toki.webp","w":165,"h":440,"a":"Chun's Pictures","l":"CC BY 2.0","u":"https://www.flickr.com/photos/23203692@N03/28340187626","n":""},"hibiki-17":{"f":"bottles/hibiki-17.webp","w":198,"h":440,"a":"Fareham Wine","l":"CC BY 2.0","u":"https://www.flickr.com/photos/62243473@N05/20540991903","n":""},"yamazaki-18":{"f":"bottles/yamazaki-18.webp","w":142,"h":440,"a":"dplucinik","l":"CC BY 2.0","u":"https://www.flickr.com/photos/90401303@N00/4510178528","n":""},"glenlivet-18":{"f":"bottles/glenlivet-18.webp","w":127,"h":440,"a":"CCFoodTravel.com","l":"CC BY 2.0","u":"https://commons.wikimedia.org/w/index.php?curid=40777234","n":"15·18·12년이 함께 찍힌 사진에서 18년만 참고"},"tomatin-12":{"f":"bottles/tomatin-12.webp","w":155,"h":440,"a":"Datenralfi","l":"CC BY-SA 3.0","u":"https://commons.wikimedia.org/w/index.php?curid=80973229","n":""},"aberfeldy-12":{"f":"bottles/aberfeldy-12.webp","w":191,"h":440,"a":"Numitr0n","l":"CC BY-SA 4.0","u":"https://commons.wikimedia.org/w/index.php?curid=78180181","n":""},"ledaig-10":{"f":"bottles/ledaig-10.webp","w":153,"h":440,"a":"Keeezawa","l":"CC BY-SA 4.0","u":"https://commons.wikimedia.org/w/index.php?curid=127592200","n":""},"jim-beam":{"f":"bottles/jim-beam.webp","w":139,"h":440,"a":"Okkornj","l":"CC BY-SA 4.0","u":"https://commons.wikimedia.org/w/index.php?curid=89544936","n":""},"paul-john":{"f":"bottles/paul-john.webp","w":107,"h":440,"a":"John Distilleries","l":"CC BY-SA 4.0","u":"https://commons.wikimedia.org/w/index.php?curid=54415655","n":""}};
 // sh: 병 모양 std 기본 / tall 목 긴 / round 배불뚝 / square 사각 / tri 삼각 / flask 납작 / block 낮은 블록 / deca 디캔터 / jug 도자기
 // g: 유리 clear 투명(액체 보임) / green / dark / brown / teal 불투명 하늘색 / ceramic
 // p 피트 0-4, b 무게감 1-5, s 단맛·과일 1-5, sy 셰리 영향 0-3
@@ -671,7 +671,7 @@ function renderShelves(){
       const hit=B.filter(o=>o.st===s.id&&o.row===rid&&matches(o));
       if(!hit.length)continue;
       shown+=hit.length;
-      rows+=`<div class="plate" role="heading" aria-level="3"><b>${rn}</b><span>${hit.length}</span><i>${rhint}</i></div>${hit.map(btn).join('')}`;
+      rows+=`<div class="plate" role="heading" aria-level="3"><b>${rn}</b><span>${hit.length}</span><i>${rhint}</i></div>${hit.map(o=>btn(o)).join('')}`;
     }
     if(!rows)continue;
     html+=`<section class="style" id="s-${s.id}" aria-label="${s.n} 진열장"><div class="style-head"><div class="style-no">${String(no).padStart(2,'0')}</div><div class="style-en">${s.en}</div><h2>${s.n}</h2><p>${s.d}</p></div><div class="cabinet"><div class="track">${rows}</div></div></section>`;
@@ -681,7 +681,7 @@ function renderShelves(){
 }
 function renderFoot(){
   const list=B.filter(o=>PH[o.id]).map(o=>{const p=PH[o.id];return `<li>${esc(o.n)}: ${esc(p.a)} · ${esc(p.l)} · <a href="${p.u}" target="_blank" rel="noopener">원본</a>${p.n?` (${esc(p.n)})`:''}</li>`}).join('');
-  document.getElementById('site-foot').innerHTML=`병 소매가는 ${esc(PRICE_ASOF)}에 국내 주류 판매처(주로 데일리샷, 일부 대형마트·주류 전문점)에 올라온 가격을 모은 범위이고, 바에서 파는 한 잔 값이 아닙니다. 판매처·환율·행사에 따라 달라집니다.<br>맛 표현과 수치는 일반적으로 알려진 내용을 줄인 것이고, 맛 점수는 병끼리 비교하려고 붙인 대략적인 값입니다. 도수와 라벨은 제품 연도·수입 판에 따라 다를 수 있습니다.<br>병 이미지는 위키미디어 공용의 자유 라이선스 사진을 참고해 AI(GPT 이미지)로 정면·투명 배경으로 다시 그린 것입니다. 라벨 글자가 실제와 조금 다를 수 있고, 참고 사진의 작가와 라이선스를 함께 적었습니다(CC BY-SA 사진에서 나온 이미지는 같은 라이선스를 따릅니다). 사진을 찾지 못한 병은 모양과 색만 단순한 그림으로 그렸습니다.
+  document.getElementById('site-foot').innerHTML=`병 소매가는 ${esc(PRICE_ASOF)}에 국내 주류 판매처(주로 데일리샷, 일부 대형마트·주류 전문점)에 올라온 가격을 모은 범위이고, 바에서 파는 한 잔 값이 아닙니다. 판매처·환율·행사에 따라 달라집니다.<br>맛 표현과 수치는 일반적으로 알려진 내용을 줄인 것이고, 맛 점수는 병끼리 비교하려고 붙인 대략적인 값입니다. 도수와 라벨은 제품 연도·수입 판에 따라 다를 수 있습니다.<br>병 이미지는 위키미디어 공용·Flickr의 자유 라이선스 사진을 참고해 AI(GPT 이미지)로 정면·투명 배경으로 다시 그린 것입니다. 라벨 글자가 실제와 조금 다를 수 있고, 참고 사진의 작가와 라이선스를 함께 적었습니다(CC BY-SA 사진에서 나온 이미지는 같은 라이선스를 따릅니다). 사진을 찾지 못한 병은 모양과 색만 단순한 그림으로 그렸습니다.
   <details><summary>참고 사진 출처 전체 보기 (${B.filter(o=>PH[o.id]).length}장)</summary><ul>${list}</ul></details>`;
 }
 
@@ -735,7 +735,7 @@ function openDetail(id,push){
     <div class="sec"><h3>Bottle <span>병 디자인</span></h3><p>${esc(o.design)}</p></div>
     <div class="sec"><h3>Story <span>알아 두면 좋은 이야기</span></h3><p>${esc(o.fact)}</p></div>
     <div class="sec"><h3>Similar <span>비슷한 맛의 병</span></h3><div class="sim">${similar(o).map(x=>btn(x,simWhy(o,x))).join('')}</div></div>
-    ${p?`<p class="credit">참고 사진: ${esc(p.a)} · ${esc(p.l)} · <a href="${p.u}" target="_blank" rel="noopener">위키미디어 공용 원본</a> · AI(GPT 이미지)로 다시 그린 병 · 라벨 글자가 실제와 다를 수 있음${p.n?` · ${esc(p.n)}`:''}</p>`:`<p class="credit">이 병은 자유 이용 사진을 찾지 못해 모양과 색만 그림으로 그렸습니다.</p>`}
+    ${p?`<p class="credit">참고 사진: ${esc(p.a)} · ${esc(p.l)} · <a href="${p.u}" target="_blank" rel="noopener">원본 사진</a> · AI(GPT 이미지)로 다시 그린 병 · 라벨 글자가 실제와 다를 수 있음${p.n?` · ${esc(p.n)}`:''}</p>`:`<p class="credit">이 병은 자유 이용 사진을 찾지 못해 모양과 색만 그림으로 그렸습니다.</p>`}
     <p class="foot">비슷한 병은 피트·무게감·단맛·셰리 점수가 가까운 순서입니다. 점수는 이 페이지에서 비교하려고 붙인 대략적인 값입니다.</p>
   </div>`;
   openSheet(sheet.innerHTML,'#b-'+id,push);

diff --git a/CLAUDE.md b/CLAUDE.md
@@ -35,7 +35,7 @@
 - 커밋 메시지: 제목에 무엇을 했는지, 본문에 왜 바꿨는지·확인한 것·못 본 것. 한국어.
 
 ## 4. 저작권·출처 기준
-- 병 이미지는 **자유 라이선스 사진(위키미디어 공용 등)을 참고해 다시 그린 것만** 쓴다. 제조사 공식 사진·쇼핑몰 사진·출처 불명 이미지는 쓰지 않는다.
+- 병 이미지는 **자유 라이선스 사진(위키미디어 공용·Flickr 등, 상업 이용·변경 허용 라이선스)을 참고해 다시 그린 것만** 쓴다. 제조사 공식 사진·쇼핑몰 사진·출처 불명 이미지는 쓰지 않는다. 판매점 계정이 공식 제품 사진을 퍼블릭 도메인으로 올린 것처럼 라이선스가 미심쩍으면 쓰지 않는다(2026-11-21 조니워커 레드·더블 블랙 후보 제외). 사진 찾기는 Openverse API(`license_type=commercial,modification`)가 위키미디어 검색보다 잘 맞는다.
 - 새 병 이미지를 넣으면 `PH`에 참고 사진의 작가·라이선스·원본 주소를 반드시 적는다. CC BY-SA 사진에서 나온 이미지는 같은 라이선스로 표시한다(페이지 맨 아래 출처 목록에 자동으로 나옴).
 - 참고 사진이 실제 병과 다른 판(연수·에디션)이면 `PH` 메모에 적는다.
 - 글꼴은 OFL 등 웹 사용이 허용된 것만 쓴다.

diff --git a/README.md b/README.md
@@ -2,7 +2,7 @@
 
 국내 위스키바에서 자주 보는 위스키를 종류별 선반에 진열한 정적 페이지입니다.
 
-- 병 이미지: 위키미디어 공용의 자유 라이선스 사진을 참고해 AI(GPT 이미지)로 다시 그림. 참고 사진의 작가·라이선스는 페이지 맨 아래 목록에 있습니다(CC BY-SA 사진에서 나온 이미지는 같은 라이선스).
+- 병 이미지: 위키미디어 공용·Flickr의 자유 라이선스 사진(상업 이용·변경 허용)을 참고해 AI(GPT 이미지)로 다시 그림. 참고 사진의 작가·라이선스는 페이지 맨 아래 목록에 있습니다(CC BY-SA 사진에서 나온 이미지는 같은 라이선스).
 - 공유 미리보기 이미지(`og.jpg`)는 위 병 이미지 일부를 합성한 것이라 같은 출처·라이선스를 따릅니다.
 - 글꼴: Pretendard (SIL OFL 1.1, 원문 `fonts/Pretendard-OFL.txt`), Space Grotesk (Google Fonts, OFL).
 - 내 관심(★)과 비교 목록은 방문한 브라우저에만 저장되고 서버로 보내지 않습니다.
